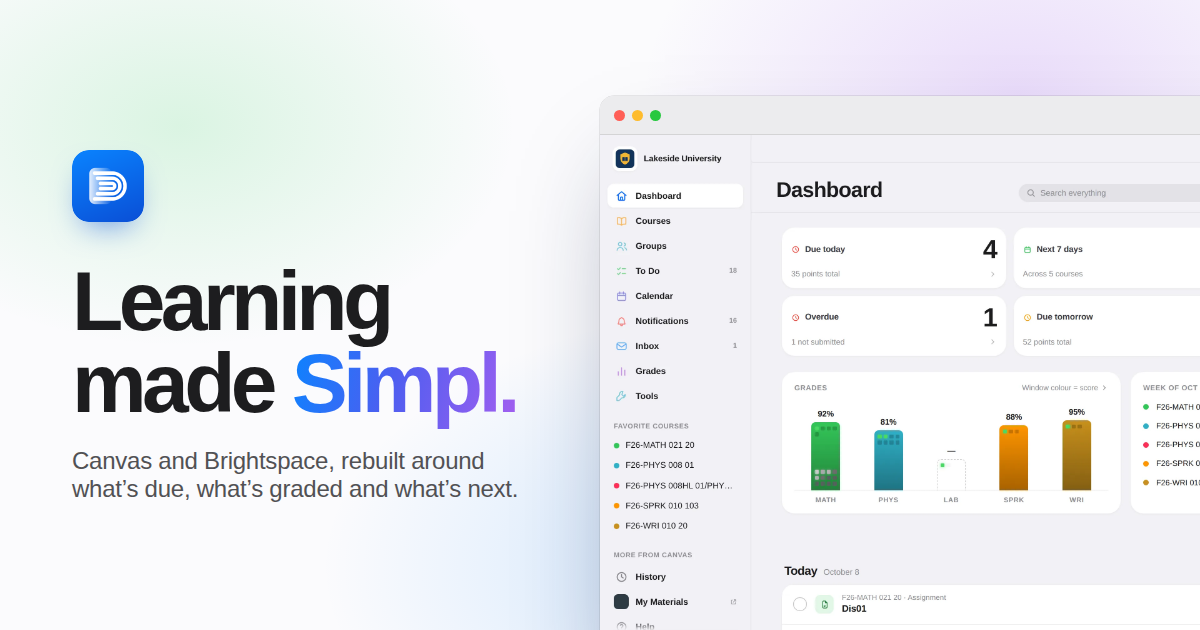
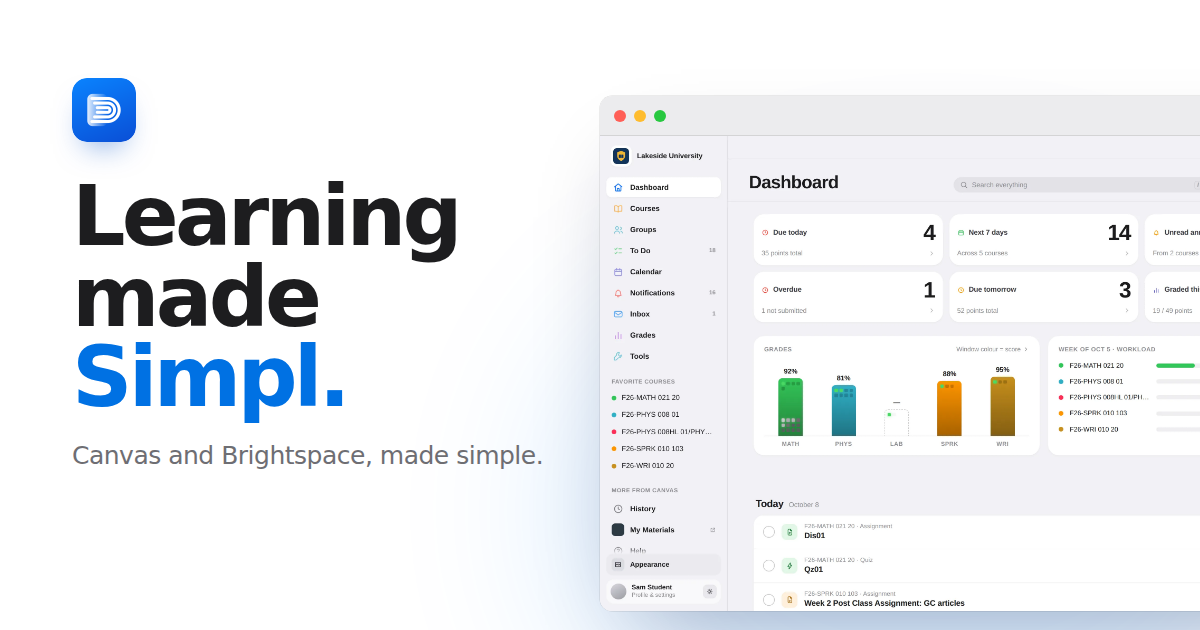
Site: no purple gradient — Simpl in solid blue
The hero's "Simpl.", the window's glow and the privacy mark are the site's blue;
the purple accents are gone; the share picture is drawn again to match
(scripts/dev/og-image.mjs makes it).

Claude-Session: https://claude.ai/code/session_014rYje5SQNJrmgutj42VSsk

diff --git a/site/public/index.html b/site/public/index.html
@@ -27,7 +27,7 @@
   --hair: rgba(0, 0, 0, .08); --hair-2: rgba(0, 0, 0, .14);
   --blue: #0071e3; --blue-hover: #0077ed; --link: #0066cc;
   --soft: #e8e8ed; --soft-hover: #dedee3; --soft-text: #1d1d1f; --soft-sub: #6e6e73; --soft-row: rgba(0, 0, 0, .06); --soft-line: rgba(0, 0, 0, .1);
-  --grad: linear-gradient(100deg, #0a84ff 0%, #5e5ce6 50%, #af52de 100%);
+  --accent: #0071e3;
   --toolbar: #ececee; --toolbar-line: rgba(0, 0, 0, .1); --url: #fff; --url-text: #3c3c43; --card: #fff;
   --shadow-win: 0 0 0 .5px rgba(0, 0, 0, .14), 0 40px 90px -36px rgba(0, 20, 60, .32), 0 18px 40px -28px rgba(0, 20, 60, .26);
   --ease-out: cubic-bezier(0.23, 1, 0.32, 1);
@@ -40,7 +40,7 @@
     --hair: rgba(255, 255, 255, .1); --hair-2: rgba(255, 255, 255, .16);
     --blue: #0071e3; --blue-hover: #0a7cf0; --link: #2997ff;
     --soft: #2c2c2e; --soft-hover: #3a3a3c; --soft-text: #f5f5f7; --soft-sub: #a1a1a6; --soft-row: rgba(255, 255, 255, .08); --soft-line: rgba(255, 255, 255, .1);
-    --grad: linear-gradient(100deg, #3d9bff 0%, #7d7aff 50%, #c98cff 100%);
+    --accent: #2997ff;
     --toolbar: #2b2b2e; --toolbar-line: rgba(255, 255, 255, .07); --url: #3b3b3f; --url-text: #d1d1d6; --card: #1c1c1e;
     --shadow-win: 0 0 0 .5px rgba(255, 255, 255, .14), 0 40px 90px -36px rgba(0, 0, 0, .9), 0 18px 40px -28px rgba(0, 0, 0, .7);
   }
@@ -58,7 +58,7 @@ svg { flex: none; }
 .wrap { width: min(var(--wrap), 100% - 44px); margin-inline: auto; }
 .skip { position: absolute; left: 12px; top: -60px; z-index: 100; padding: 10px 16px; border-radius: 12px; background: var(--text); color: var(--bg); text-decoration: none; font-weight: 600; transition: top 200ms var(--ease-out); }
 .skip:focus { top: 12px; }
-.grad-text { background: var(--grad); -webkit-background-clip: text; background-clip: text; color: transparent; -webkit-box-decoration-break: clone; }
+.accent { color: var(--accent); }
 
 /* ---- nav: a strip of material the page scrolls under ----------------------------------------------------- */
 .nav { position: fixed; inset: 0 0 auto; z-index: 50; padding-top: env(safe-area-inset-top); background: color-mix(in srgb, var(--bg) 0%, transparent); transition: background-color 240ms ease; }
@@ -144,7 +144,7 @@ svg { flex: none; }
 .stage { position: relative; margin-top: 70px; perspective: 2000px; }
 .stage__enter { position: relative; }
 .stage__tilt { transform-origin: 50% 0; }
-.stage__glow { position: absolute; inset: 14% 10% -4%; z-index: -1; border-radius: 40px; background: var(--grad); opacity: .2; filter: blur(80px); }
+.stage__glow { position: absolute; inset: 14% 10% -4%; z-index: -1; border-radius: 40px; background: #0a84ff; opacity: .16; filter: blur(80px); }
 
 /* ---- device frames -------------------------------------------------------------------------------------- */
 .win { position: relative; margin: 0; border-radius: 12px; overflow: hidden; background: var(--card); box-shadow: var(--shadow-win); }
@@ -220,7 +220,7 @@ section { position: relative; }
 
 /* privacy */
 .privacy { padding: 150px 0 0; }
-.privacy__mark { width: 80px; height: 80px; margin: 0 auto 26px; border-radius: 24px; display: grid; place-items: center; background: var(--grad); color: #fff; }
+.privacy__mark { width: 80px; height: 80px; margin: 0 auto 26px; border-radius: 24px; display: grid; place-items: center; background: #0071e3; color: #fff; }
 .privacy__mark svg { width: 40px; height: 40px; }
 .privacy__mark path, .privacy__mark rect { stroke-dasharray: 1; stroke-dashoffset: 0; }
 .link { display: inline-flex; align-items: center; gap: 5px; margin-top: 22px; font-size: 19px; color: var(--link); text-decoration: none; }
@@ -325,7 +325,7 @@ footer { background: var(--bg-2); padding: 22px 0 calc(30px + env(safe-area-inse
   <section class="hero">
     <div class="wrap">
       <a class="hero__new" href="#more"><b>New</b> Simpl for Brightspace <svg aria-hidden="true"><use href="#i-fwd"/></svg></a>
-      <h1 class="hero__title"><span class="w" style="--i:0">Learning</span> <span class="w" style="--i:1">made</span> <span class="w" style="--i:2"><span class="grad-text">Simpl.</span></span></h1>
+      <h1 class="hero__title"><span class="w" style="--i:0">Learning</span> <span class="w" style="--i:1">made</span> <span class="w" style="--i:2"><span class="accent">Simpl.</span></span></h1>
       <p class="sub">Canvas and Brightspace, made simple.</p>
       <div class="cta">
         <a class="btn btn--blue" href="https://chromewebstore.google.com/detail/simpl-courses/ljhgbneclhamffmdhpokmfhkooabgcgp"><svg aria-hidden="true"><use href="#i-puzzle"/></svg>Add to Chrome</a>
@@ -366,7 +366,7 @@ footer { background: var(--bg-2); padding: 22px 0 calc(30px + env(safe-area-inse
 
   <!-- ---- grades -------------------------------------------------------------------------------------- -->
   <section class="band" id="grades">
-    <div class="wrap center reveal" style="--k:#8e44ec">
+    <div class="wrap center reveal" style="--k:#30b0c7">
       <p class="kicker">Grades</p>
       <h2 class="h2">Know your grades.</h2>
       <p class="sub">Your GPA and every course, at a glance.</p>
@@ -509,9 +509,9 @@ footer { background: var(--bg-2); padding: 22px 0 calc(30px + env(safe-area-inse
       <div class="bento">
         <div class="bit bit--wide reveal" style="--c:#ff453a"><svg aria-hidden="true"><use href="#i-bell"/></svg><p><b>Notifications.</b> Everything new, in one place.</p></div>
         <div class="bit reveal" style="--c:#0a84ff; --d:60ms"><svg aria-hidden="true"><use href="#i-clip"/></svg><p><b>Hand in.</b> Files, links or text.</p></div>
-        <div class="bit reveal" style="--c:#5e5ce6; --d:120ms"><svg aria-hidden="true"><use href="#i-search"/></svg><p><b>Search.</b> One box for everything.</p></div>
+        <div class="bit reveal" style="--c:#0a84ff; --d:120ms"><svg aria-hidden="true"><use href="#i-search"/></svg><p><b>Search.</b> One box for everything.</p></div>
         <div class="bit reveal" style="--c:#ff9f0a"><svg aria-hidden="true"><use href="#i-cards"/></svg><p><b>Study tools.</b> Flashcards, timer, calculator.</p></div>
-        <div class="bit reveal" style="--c:#af52de; --d:60ms"><svg aria-hidden="true"><use href="#i-wand"/></svg><p><b>What-if.</b> See a grade before it lands.</p></div>
+        <div class="bit reveal" style="--c:#30b0c7; --d:60ms"><svg aria-hidden="true"><use href="#i-wand"/></svg><p><b>What-if.</b> See a grade before it lands.</p></div>
         <div class="bit bit--wide reveal" style="--c:#ff375f; --d:120ms"><svg aria-hidden="true"><use href="#i-clock"/></svg><p><b>Reminders.</b> A nudge before it’s due.</p></div>
         <div class="bit bit--wide reveal" style="--c:#30b45a"><svg aria-hidden="true"><use href="#i-list"/></svg><p><b>Your tasks.</b> Add your own to-dos.</p></div>
         <div class="bit bit--wide reveal" style="--c:#64d2ff; --d:60ms"><svg aria-hidden="true"><use href="#i-moon"/></svg><p><b>Dark mode.</b> Easy on the eyes.</p></div>
